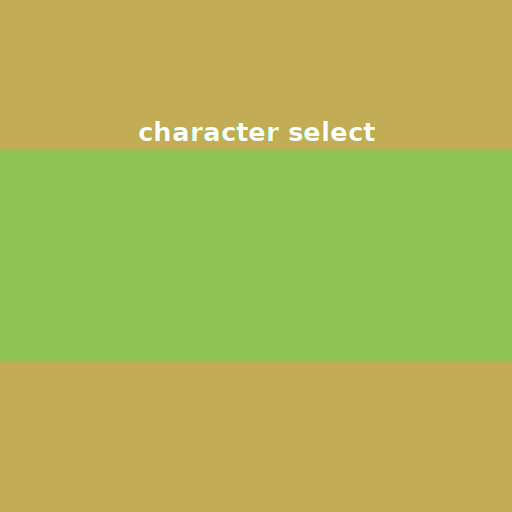
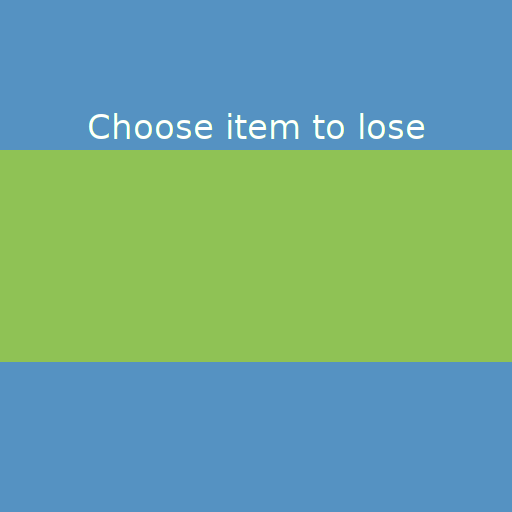
Working item selection screen

diff --git a/src/game/items.c b/src/game/items.c
@@ -1,28 +1,22 @@
-void removeItem(enum itemType type) {
-    for (int i = 0; i < player_items_n; i++) {
-        if (player_items[i].item_type == type) {
-            entities[PLAYER_ID].max_health /= player_items[i].max_health;
-            entities[PLAYER_ID].damage /= player_items[i].damage;
-            entities[PLAYER_ID].shot_rate /= player_items[i].shot_rate;
-            entities[PLAYER_ID].range /= player_items[i].range;
-            entities[PLAYER_ID].shot_speed /= player_items[i].shot_speed;
-            entities[PLAYER_ID].speed /= player_items[i].speed;
-            entities[PLAYER_ID].knockback /= player_items[i].knockback;
-            entities[PLAYER_ID].scale /= player_items[i].scale;
-            entities[PLAYER_ID].shot_scale /= player_items[i].shot_scale;
+void removeItem(int i) {
+    entities[PLAYER_ID].max_health /= player_items[i].max_health;
+    entities[PLAYER_ID].damage /= player_items[i].damage;
+    entities[PLAYER_ID].shot_rate /= player_items[i].shot_rate;
+    entities[PLAYER_ID].range /= player_items[i].range;
+    entities[PLAYER_ID].shot_speed /= player_items[i].shot_speed;
+    entities[PLAYER_ID].speed /= player_items[i].speed;
+    entities[PLAYER_ID].knockback /= player_items[i].knockback;
+    entities[PLAYER_ID].scale /= player_items[i].scale;
+    entities[PLAYER_ID].shot_scale /= player_items[i].shot_scale;
 
-            player_items_n--;
-            for (int j = i; i < player_items_n; i++) {
-                player_items[j] = player_items[j+1];
-            }
+    player_items_n--;
+    for (int j = i; i < player_items_n; i++) {
+        player_items[j] = player_items[j+1];
+    }
 
-            for (int j = 0; j < player_items_n; j++) {
-                if (player_items[j].shot_type > entities[PLAYER_ID].shot_type) {
-                    entities[PLAYER_ID].shot_type = player_items[j].shot_type;
-                }
-            }
-
-            return;
+    for (int j = 0; j < player_items_n; j++) {
+        if (player_items[j].shot_type > entities[PLAYER_ID].shot_type) {
+            entities[PLAYER_ID].shot_type = player_items[j].shot_type;
         }
     }
 }
@@ -50,15 +44,15 @@ void loadPlayerItems(const char *item_filename) {
     FILE *item_file = fopen(item_filename, "r");
     player_items_n = 0;
 
-    int item;
+    int item_id;
     char buffer[40];
-    while ((fscanf(item_file, " %d", &item)) != EOF) {
-        sprintf(buffer, "/items/%d.item", item);
+    while ((fscanf(item_file, " %d", &item_id)) != EOF) {
+        sprintf(buffer, "/items/%d.item", item_id);
         FILE *item = fopen(buffer, "r");
 
         struct item *cur = &player_items[player_items_n];
 
-        cur->item_type = (enum itemType) item;
+        cur->item_type = (enum itemType) item_id;
         while ((fscanf(item, " %s", buffer)) != EOF) {
             if (!strcmp(buffer, "shot_type")) {
                 fscanf(item, " %u", &cur->shot_type);

diff --git a/src/gamestates/itemselection.c b/src/gamestates/itemselection.c
@@ -7,6 +7,22 @@ void runItemSelection() {
     loadModel("/itemselect/background.obj", "/itemselect/background.vq", VERTEX_ALL, 512);
 
     umountRomdisk("/itemselect");
+    mountRomdisk("/cd/items_romdisk.img", "/items");
+
+    for (int i = 0; i < IT_MAX; i++) {
+        char buffer1[40], buffer2[40];
+        sprintf(buffer1, "/items/%d.obj", i);
+        sprintf(buffer2, "/items/%d.vq", i);
+        items_models[i] = loaded_models_n;
+        loadModel(buffer1, buffer2, VERTEX_ALL, 512);
+    }
+
+    umountRomdisk("/items");
+
+    endLoading();
+
+    float rotation = 0;
+    int selected_item = 0;
 
     global_timer = 0;
     while (cur_gs == GS_ITEMSELECT) {
@@ -16,10 +32,48 @@ void runItemSelection() {
         cont_state_t *state = (cont_state_t *)maple_dev_status(cont);
 
         if (global_timer > INPUT_DELAY) {
-            if (state->buttons & CONT_START) cur_gs = GS_GAME;
+            if (state->buttons & CONT_DPAD_LEFT) {
+                selected_item--;
+                global_timer = 0;
+            }
+            if (state->buttons & CONT_DPAD_RIGHT) {
+                selected_item++;
+                global_timer = 0;
+            }
+            if (state->buttons & CONT_START) {
+                removeItem(selected_item);
+                cur_gs = GS_GAME;
+            }
+        }
+        if (selected_item < 0) {
+            selected_item = player_items_n-1;
+        }
+        else if (selected_item >= player_items_n) {
+            selected_item = 0;
         }
 
+        rotation += 0.4;
+
         glClear(GL_COLOR_BUFFER_BIT | GL_DEPTH_BUFFER_BIT);
+
+        glMatrixMode(GL_MODELVIEW);
+        glLoadIdentity();
+
+        glTranslatef(0, 0, -1.5f);
+
+        glPushMatrix();
+        drawModel(0);
+        glPopMatrix();
+
+        for (int i = 0; i < player_items_n; i++) {
+            glPushMatrix();
+            glTranslatef((i-selected_item)/8.0f, 0, 0);
+            glRotatef(rotation, 0, 1, 0);
+            glScalef(0.03f, 0.03f, 0.03f);
+            drawModel(items_models[player_items[i].item_type]);
+            glPopMatrix();
+        }
+
         glutSwapBuffers();
     }
     entities[PLAYER_ID].pos.z += GRAVITY;

diff --git a/src/gamestates/charselection.c b/src/gamestates/charselection.c
@@ -74,7 +74,7 @@ void runCharSelection() {
 
         for (int i = 1; i <= player_count; i++) {
             glPushMatrix();
-            glTranslatef(((i-selected_player))/2.0f, 0, 0);
+            glTranslatef((i-selected_player)/2.0f, 0, 0);
             glRotatef(rotation, 0, 1, 0);
             glScalef(0.13f, 0.13f, 0.13f);
             drawModel(i);

diff --git a/src/globals.h b/src/globals.h
@@ -21,3 +21,4 @@ int selected_player;
 
 struct item player_items[20];
 int player_items_n;
+int items_models[IT_MAX];
